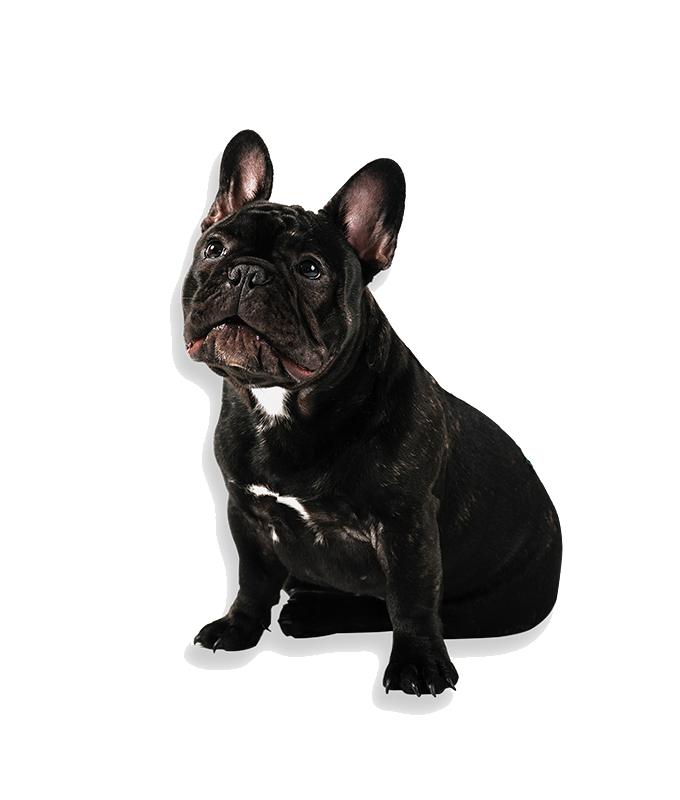
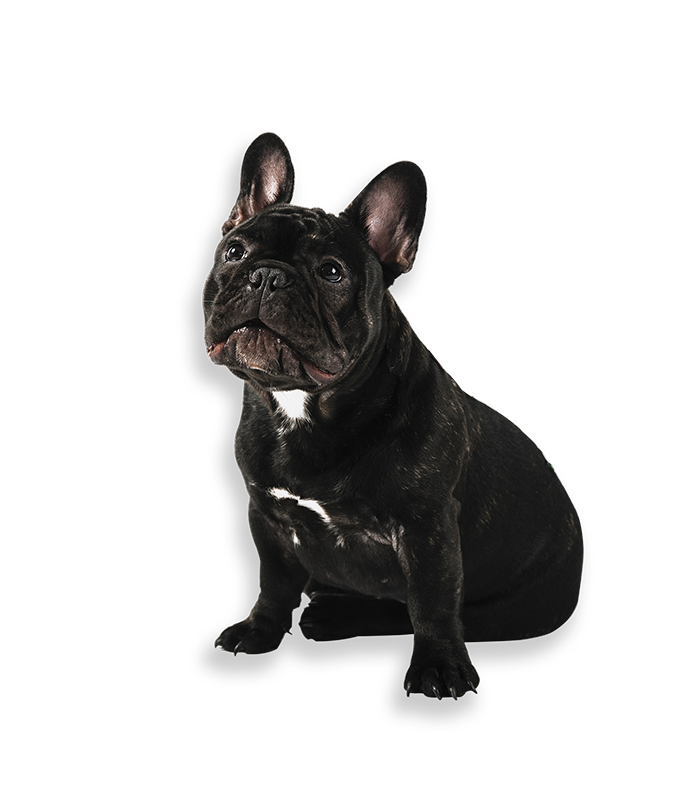
commit

Changed region(s): [[0.2471, 0.1562, 0.8647, 0.9062]]

diff --git a/index.html b/index.html
@@ -43,31 +43,89 @@
 
     <main id="main">
       <section id="topo">
-        <div class="row">
-          <div class="jumbotron bg-transparent" id="jumbotronTopo">
-            <h1 class="display-4">First I wanted to be a veterinarian</h1>
-            <p class="lead">Lorem Ipsum available but the majority have
-              suffered alteration in some form, by injected
-              humour randomised words.</p>
-            <a class="btn btn-sm" style="background-color:#38E4AE;" href="#" role="button">Contact Us</a>
-            <a class="btn btn-primary btn-sm bg-transparent text-white" href="#" role="button">Our Service</a>
+        <div class="container-fluid">
+          <div class="row align-items-center">
+            <div class="col col-sm-6">
+              <div class="jumbotron bg-transparent" id="jumbotronTopo">
+                <h1 class="display-4">First I wanted to be a veterinarian</h1>
+                <p class="lead">Lorem Ipsum available but the majority have
+                  suffered alteration in some form, by injected
+                  humour randomised words.</p>
+                <a class="btn btn-sm text-white" style="background-color:#38E4AE;" href="#" role="button">Contact Us</a>
+                <a class="btn btn-primary btn-sm bg-transparent text-white" href="#" role="button">Our Service</a>  
+              </div>
+            </div>
+            <div class="col col-sm-4">
+              <img src="img/bannerHome.png" id="imagens" alt=""/>
+            </div>
           </div>
-            <img src="img/bannerHome.png" id="imgBanner" alt=""/>         
-        </div>
+        </div>          
       </section>
 
       <section id="about">
-        <div class="row">
-          <div class="jumbotron bg-transparent" id="jumbotronAbout">
-            <h2 class="display-4">As a veterinarian and lover of animals.</h2>
-              <p class="lead">Lorem Ipsum available but the majority have
-              suffered alteration in some form, by injected
-              humour randomised words.</p>
-              <a class="btn btn-sm text-white" style="background-color:#FDC50D;" href="#" role="button">Our Service</a>
+        <div class="container-fluid">
+          <div class="row align-items-center">
+            <div class="col col-sm-6">
+              <div class="jumbotron bg-transparent" id="jumbotronAbout">
+                <h2 class="display-4">As a veterinarian and lover of animals.</h2>
+                  <p class="lead">Lorem Ipsum available but the majority have
+                  suffered alteration in some form, by injected
+                  humour randomised words.</p>
+                  <a class="btn btn-sm text-white" style="background-color:#FDC50D;" href="#" role="button">Our Service</a>
+                </div>
+            </div>            
+            <div class="col col-sm-4">
+              <img src="img/video001.png" id="imagens" alt=""/>
+            </div>          
+          </div>
+        </div>        
+      </section>
+
+      <section id="service">
+        <div class="container-fluid">
+          <div class="row justify-content-center">
+            <div class="col-sm-10">
+              <div class="jumbotron bg-transparent">
+                <h2 class="display-4">Title Here</h2>
+                  <p class="lead">Lorem Ipsum available but the majority have
+                  suffered alteration in some form, by injected
+                  humour randomised words.</p>                  
+              </div>
             </div>
-          <div class="col col-sm-4" id="imagens">
-            <img src="img/video001.png" id="imgBanner" alt=""/>
-          </div>          
+          </div>
+          <div class="row justify-content-around">
+            <div class="col-sm-6 w-100">
+              <div class="card-group">
+                <div class="card bg-transparent" style="max-width: 18rem;">
+                  <img class="card-img-top" src="img/card001.png" alt="Imagem de capa do card">
+                  <div class="card-body">
+                    <h5 class="card-title">Veterinarian</h5>
+                    <p class="card-text">Lorem Ipsum available but the majority have
+                      suffered alteration in some form, by injected
+                      humour randomised words.</p>
+                  </div>
+                </div>
+                <div class="card bg-transparent" style="max-width: 18rem;">
+                  <img class="card-img-top" src="img/card002.png" alt="Imagem de capa do card">
+                  <div class="card-body">
+                    <h5 class="card-title">Vaccination Care</h5>
+                    <p class="card-text">Lorem Ipsum available but the majority have
+                      suffered alteration in some form, by injected
+                      humour randomised words.</p>
+                  </div>
+                </div>
+                <div class="card bg-transparent" style="max-width: 18rem;">
+                  <img class="card-img-top" src="img/card003.png" alt="Imagem de capa do card">
+                  <div class="card-body">
+                    <h5 class="card-title">Dental Care</h5>
+                    <p class="card-text">Lorem Ipsum available but the majority have
+                      suffered alteration in some form, by injected
+                      humour randomised words.</p>
+                  </div>
+                </div>
+              </div>
+            </div>
+          </div>
         </div>
       </section>
       

diff --git a/estilo.css b/estilo.css
@@ -1,8 +1,8 @@
-body{
+html, body{
     height: 100vh;
     width: auto;
     background-color: #FDC50D;
-    margin: 0;
+    margin:0;
 }
 
 #nav{
@@ -15,19 +15,11 @@ body{
 
 #jumbotronTopo{
     height: 85vh;
-    width: 40vw;
     color: white;
-    align-self: center;
 }
+
 
 #imagens{
-    display: flex;
-    height: 50vh;
-    align-items: right;
-    align-self: center;
-}
-
-#imgBanner{
     height: 100%;
     width: auto;
 }
@@ -41,7 +33,11 @@ body{
 
 #jumbotronAbout{
     height: 85vh;
-    width: 40vw;
-    align-self: center;
     color: black;
+}
+
+#service{
+    height: 85vh;
+    color: white;
+    text-align: center;
 }
